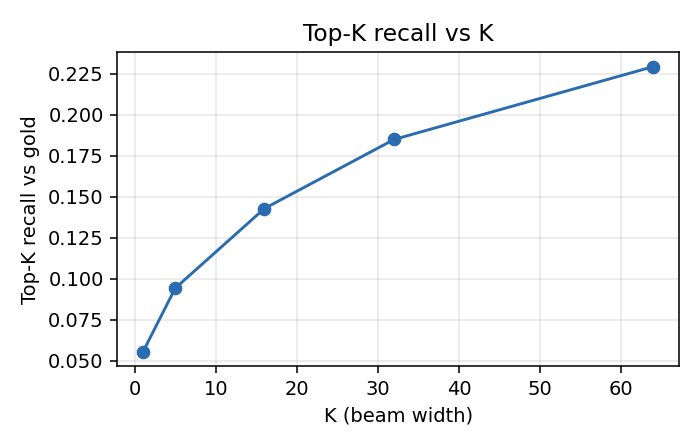
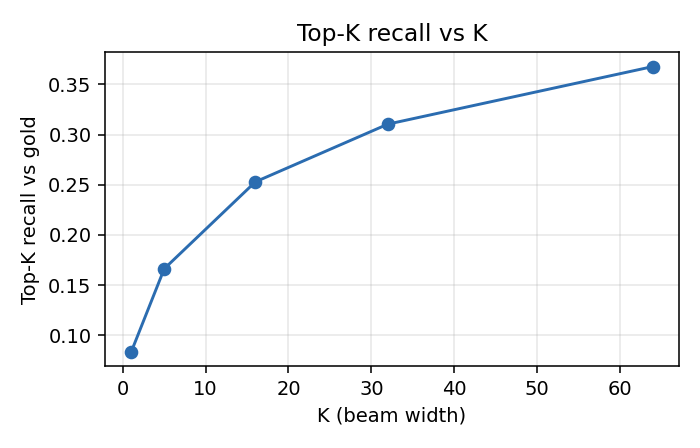
Ran benchmark with weights (actually this time)

diff --git a/cushr_gpu/KBEST_BENCHMARK.md b/cushr_gpu/KBEST_BENCHMARK.md
@@ -8,11 +8,11 @@ Warp-level k-best merge kernel (`kbest_merge_level`) benchmarked over the SIGHUM
 
 | K | sent/sec (kernel) | µs/sent (kernel) | µs/sent (loop) | table MB | used MB |
 |---|------------------:|-----------------:|---------------:|---------:|--------:|
-| 1 | 2706 | 369.6 | 499.8 | 68.5 | 72.0 |
-| 5 | 2625 | 381.0 | 510.7 | 273.9 | 276.0 |
-| 16 | 2757 | 362.7 | 491.0 | 838.9 | 840.0 |
-| 32 | 2716 | 368.2 | 495.5 | 1660.7 | 1662.0 |
-| 64 | 1202 | 831.8 | 958.3 | 3304.3 | 3306.0 |
+| 1 | 2730 | 366.3 | 496.4 | 68.5 | 72.0 |
+| 5 | 2698 | 370.7 | 499.9 | 273.9 | 276.0 |
+| 16 | 2730 | 366.3 | 495.7 | 838.9 | 840.0 |
+| 32 | 2775 | 360.4 | 489.3 | 1660.7 | 1662.0 |
+| 64 | 1210 | 826.6 | 954.3 | 3304.3 | 3306.0 |
 
 ## Top-K recall vs gold
 
@@ -20,11 +20,11 @@ Measured over the 59092 sentences that carry a resolved gold path (~50% of the c
 
 | K | recall@K |
 |---|---------:|
-| 1 | 0.0551 |
-| 5 | 0.0941 |
-| 16 | 0.1427 |
-| 32 | 0.1848 |
-| 64 | 0.2293 |
+| 1 | 0.0831 |
+| 5 | 0.1663 |
+| 16 | 0.2529 |
+| 32 | 0.3104 |
+| 64 | 0.3679 |
 
 ![Top-K recall vs K](recall_vs_k.png)
 
